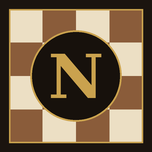
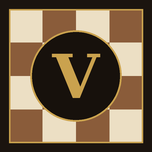
Add files via upload

Changed region(s): [[0.3158, 0.3421, 0.6842, 0.6579], [0.3158, 0.3421, 0.3421, 0.3947]]

diff --git a/index.html b/index.html
@@ -3,7 +3,7 @@
 <head>
 <meta charset="UTF-8">
 <meta name="viewport" content="width=device-width, initial-scale=1, maximum-scale=1, viewport-fit=cover">
-<title>Ledger &amp; Board — Chess Puzzle Trainer</title>
+<title>Vigaasan's Chess Board — Chess Puzzle Trainer</title>
 <link rel="manifest" href="manifest.json">
 <link rel="icon" href="icon-192.png">
 <link rel="apple-touch-icon" href="icon-180.png">
@@ -45,6 +45,8 @@
 
   *{box-sizing:border-box; -webkit-tap-highlight-color: transparent;}
   html,body{height:100%;}
+  html{ scroll-padding-top: env(safe-area-inset-top, 0px); }
+  :root{ padding-top: env(safe-area-inset-top, 0px); padding-bottom: env(safe-area-inset-bottom, 0px); background: var(--bg); }
   body{
     margin:0; background:var(--bg); color:var(--ink);
     font-family:"Source Serif 4", Georgia, "Iowan Old Style", serif;
@@ -56,7 +58,7 @@
   }
 
   header.top{
-    position:sticky; top:0; z-index:20; display:flex; align-items:center; justify-content:space-between;
+    position:sticky; top:env(safe-area-inset-top, 0px); z-index:20; display:flex; align-items:center; justify-content:space-between;
     padding:14px 16px 10px; background:linear-gradient(var(--bg), rgba(0,0,0,0)); border-bottom:1px solid var(--rule);
   }
   .brand{ display:flex; align-items:baseline; gap:8px; }
@@ -250,7 +252,7 @@
     <div class="brand">
       <span class="mark">♞</span>
       <div>
-        <h1>Ledger &amp; Board</h1>
+        <h1>Vigaasan's Chess Board</h1>
         <small id="collectionLabel">Practical Chess Endings</small>
       </div>
     </div>
@@ -480,11 +482,19 @@ window.__PUZZLE_DATA__ = {"endings": [{"type": "puzzle", "source": "endings", "n
   // ============================================================
   function buildChapters(items){
     var order = [], seen = {};
+    var puzzleCount = 0;
     items.forEach(function(it){
+      if (it.type === 'puzzle') puzzleCount++;
       var c = it.chapter || '\u2014';
       if (!seen[c]){ seen[c]=true; order.push(c); }
     });
-    return order.length > 1 ? order : null;
+    // Only treat "chapter" values as real chapters if they actually group
+    // more than one puzzle together. Some PGN sets (e.g. numbered endgame
+    // studies) give every single puzzle its own unique label in that field
+    // ("No 1", "No 2", ...) -- there order.length ends up equal to
+    // puzzleCount, which is a numbering scheme, not chapters, and treating
+    // it as chapters turns every chip into a filter over a single puzzle.
+    return (order.length > 1 && order.length < puzzleCount) ? order : null;
   }
 
   function builtin(name){

diff --git a/service-worker.js b/service-worker.js
@@ -1,4 +1,4 @@
-const CACHE_NAME = 'ledger-board-v2';
+const CACHE_NAME = 'vigaasan-chess-v3';
 const CORE_ASSETS = [
   './',
   './index.html',

diff --git a/README.md b/README.md
@@ -1,6 +1,6 @@
-# Ledger & Board — Chess Puzzle Trainer
+# Vigaasan's Chess Board — Chess Puzzle Trainer
 
-A self-contained puzzle trainer, now with:
+A self-contained puzzle trainer built from two PGN collections, with:
 
 - **Your own PGN library** — upload any `.pgn` file with `[FEN]` puzzle positions
   (tap **+ Add PGN** in the top strip, or use the 📊 **Stats & library** panel).
@@ -9,15 +9,11 @@ A self-contained puzzle trainer, now with:
   rating (starts at 1200) adjusts after every solve or "show answer," based on
   how hard the puzzle was relative to your current rating. See it all in the
   📊 panel: rating, accuracy, puzzles solved, and a small trend line.
-- **Bigger, crisper pieces and icons** — piece glyphs are ~70% larger and no
-  longer get swapped for tiny colour-emoji versions on Android; app icons were
-  regenerated at high resolution with anti-aliased edges.
 - **An automatic Android build** — push to `main` and GitHub Actions builds a
-  downloadable `.apk` for you (see below). No PWABuilder step required anymore,
-  though that route still works too if you ever prefer it.
+  downloadable `.apk` for you (see below).
 
-Everything still lives in one folder — no local build step for the *website*,
-no server-side code, no database.
+Everything lives in one folder — no local build step for the *website*, no
+server-side code, no database.
 
 ## Put it online with GitHub Pages (do this first)
 
@@ -29,79 +25,48 @@ no server-side code, no database.
 3. Your site goes live at `https://<your-username>.github.io/<your-repo>/`
    within about a minute.
 
-## Download the APK from Actions (what you asked for)
+## Download the APK from Actions
 
 Once Pages is live, the **Build Android APK** workflow
-(`.github/workflows/build-apk.yml`) builds the app automatically:
+(`.github/workflows/build-apk.yml`) builds the app automatically on every
+push to `main`, or on demand from **Actions → Build Android APK → Run
+workflow**. Open that run and scroll to the bottom of the summary page for
+the **Artifacts** section — **`ledger-and-board-apk`** contains
+`app-release-signed.apk`, ready to sideload onto an Android phone.
 
-1. It runs on every push to `main`, or on demand from **Actions → Build
-   Android APK → Run workflow**.
-2. Open that workflow run and scroll to the bottom of the summary page —
-   there's an **Artifacts** section with **`ledger-and-board-apk`**.
-3. Click it to download a `.zip`; inside is **`app-release-signed.apk`**,
-   ready to sideload onto an Android phone.
+The signing key is generated fresh on every run, which is fine for
+installing/testing but not for publishing updates to the Play Store (that
+needs a stable key you keep across releases — ask if you want the workflow
+adjusted for that).
 
-This replaces the old "Android CI" template that failed for this repo (that
-one expected a native Android Studio project, which a PGN trainer doesn't
-have). This workflow instead uses **Bubblewrap** to wrap your live Pages URL
-as a Trusted Web Activity and compiles a real APK on GitHub's servers — no
-Android Studio, no local setup.
+### Alternative: PWABuilder (no CI)
 
-A few things worth knowing about this workflow:
-
-- It generates a **fresh signing key on every run**, which is fine for
-  installing/testing but means each build is signed differently. If you ever
-  want a stable key (e.g. to publish updates without Android complaining
-  about a "conflicting signature"), add a repository secret named
-  `KEYSTORE_PASSWORD` and let me know if you'd like the workflow adjusted to
-  reuse a committed keystore instead of generating a new one each time.
-- It assumes the default `https://<owner>.github.io/<repo>/` Pages URL. If
-  you're using a custom domain for Pages, the `host` value in the workflow's
-  generated `twa-manifest.json` step needs to be edited to match.
-- If a run fails, open the failing step's log and send it my way — CI
-  environments occasionally shift (Android SDK paths, tool versions) and the
-  workflow may need a small update.
-
-### Alternative: PWABuilder (no CI, if you'd rather not wait on Actions)
-
-Still works exactly as before: paste your Pages URL into
-[pwabuilder.com](https://www.pwabuilder.com) → **Package for stores** →
-**Android** → **Generate** → unzip → `.apk` is inside.
+Paste your GitHub Pages URL into [pwabuilder.com](https://www.pwabuilder.com)
+→ **Package for stores** → **Android** → **Generate** → unzip → `.apk` is
+inside.
 
 ## Using your own PGN files in the app
 
 Tap **+ Add PGN** in the collection strip (or **📊 → Upload PGN file(s)**).
-Pick one or more `.pgn` files — each game needs a `[FEN "..."]` header (a
-starting position) and at least one move in the mainline to be treated as a
-puzzle; games without a FEN are shown as plain lesson/text cards, same as the
-built-in "Chess Strategy" chapters. Uploaded files appear as their own chip
-in the collection strip, with a 📄 icon, and can be removed any time from the
-📊 panel. Everything is stored in the browser's local storage on that device;
-there's no server, so files don't sync between devices or browsers.
-
-If local storage is full or unavailable (e.g. private browsing), the app
-will tell you rather than silently losing your upload.
+Each game needs a `[FEN "..."]` header and at least one move in the mainline
+to be treated as a puzzle; games without a FEN show as plain lesson/text
+cards. Uploaded files appear as their own chip, marked 📄, and can be removed
+any time from the 📊 panel. Everything is stored in the browser's local
+storage on that device — there's no server, so files don't sync between
+devices or browsers.
 
 ## How solving works
 
 Tap a piece, then tap the destination square. Wrong tries flash red and let
 you retry; **Hint** highlights the correct piece to move; **Show answer**
 plays out the full solution with the original annotator's comments. A timer
-runs while you solve — solving without using "Show answer" updates your
-rating up, using "Show answer" without solving counts as a miss. Progress,
-timing history, and rating are all saved locally per device.
-
-## Editing the built-in puzzle set
-
-The two built-in collections are embedded as JSON near the top of
-`index.html` (inside the first `<script>` tag, assigned to
-`window.__PUZZLE_DATA__`). To regenerate them from the original PGNs, or to
-add a third built-in collection, ask me and I can rebuild that block —
-uploaded files don't need this, they're parsed live in the browser.
+runs while you solve — solving without "Show answer" raises your rating,
+using it without solving lowers it. Progress, timing history, and rating are
+all saved locally per device.
 
 ## Credits
 
-Puzzle content originally comes from `Practical-chessendings.pgn` and
+Built-in puzzle content comes from `Practical-chessendings.pgn` and
 `Chess_Strategy_Simplified.pgn`. Move validation runs on
 [chess.js](https://github.com/jhlywa/chess.js) (loaded from cdnjs at
 runtime). Android packaging uses
